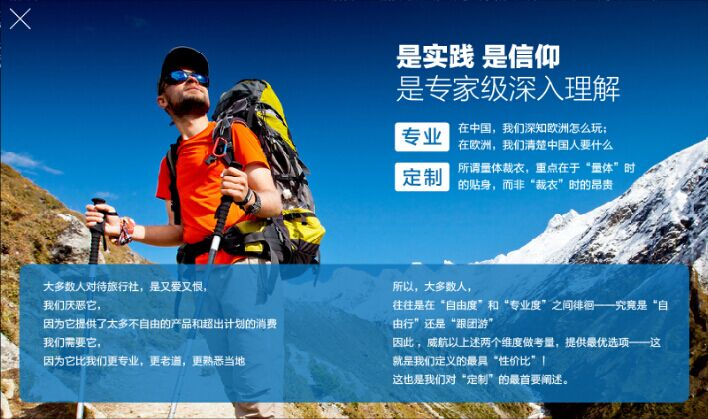
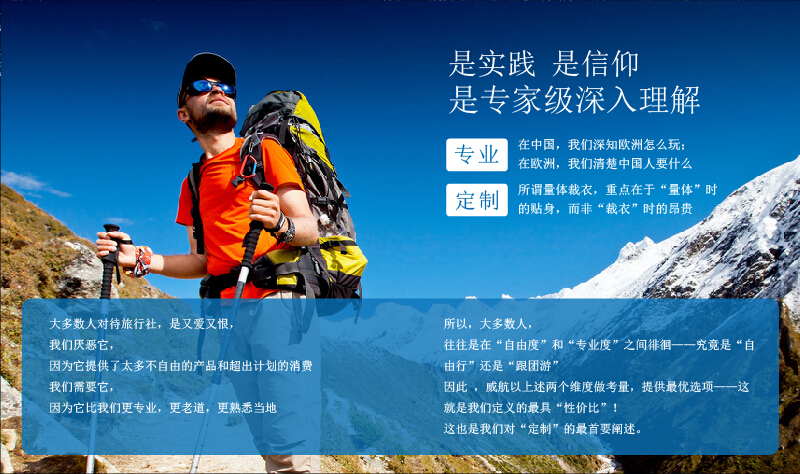
route div增加背景图片

diff --git a/css/page2.css b/css/page2.css
@@ -182,14 +182,15 @@ border-radius:50px;
 
 .mouseky{
     cursor:pointer;
-   /* background-image:url(../image/sililanka1.jpg);
+    background-image:url(../image/routebg_7.jpg);
     background-repeat:repeat-y;
-    background-position: 30% 20%; */
-    width: 49.85%;
+    background-position-x: 43%;
+    /*background-position-y: 45%;*/
+    background-size: 466.938px 70px;
 }
 .mouseky div{
     color: white;
-    background: #FC585F;
+    /*background: #FC585F;*/
 }
 .title{
     margin-bottom:4px;

diff --git a/js/page2.js b/js/page2.js
@@ -193,6 +193,10 @@ $(document).ready(function(){
 
         mouseContent.addClass("col-md-6 column mouseky");
         mouseContent.attr('route_id',RouteID);
+        var imgbg_num = RouteID %10;
+        if(imgbg_num==0)
+            imgbg_num =10;
+        mouseContent.css("background-image","url(../image/routebg_"+imgbg_num+".jpg)");
 
         tfoContent.addClass("col-md-8 column info" );
         titleContent.addClass("title" ).html(title);
